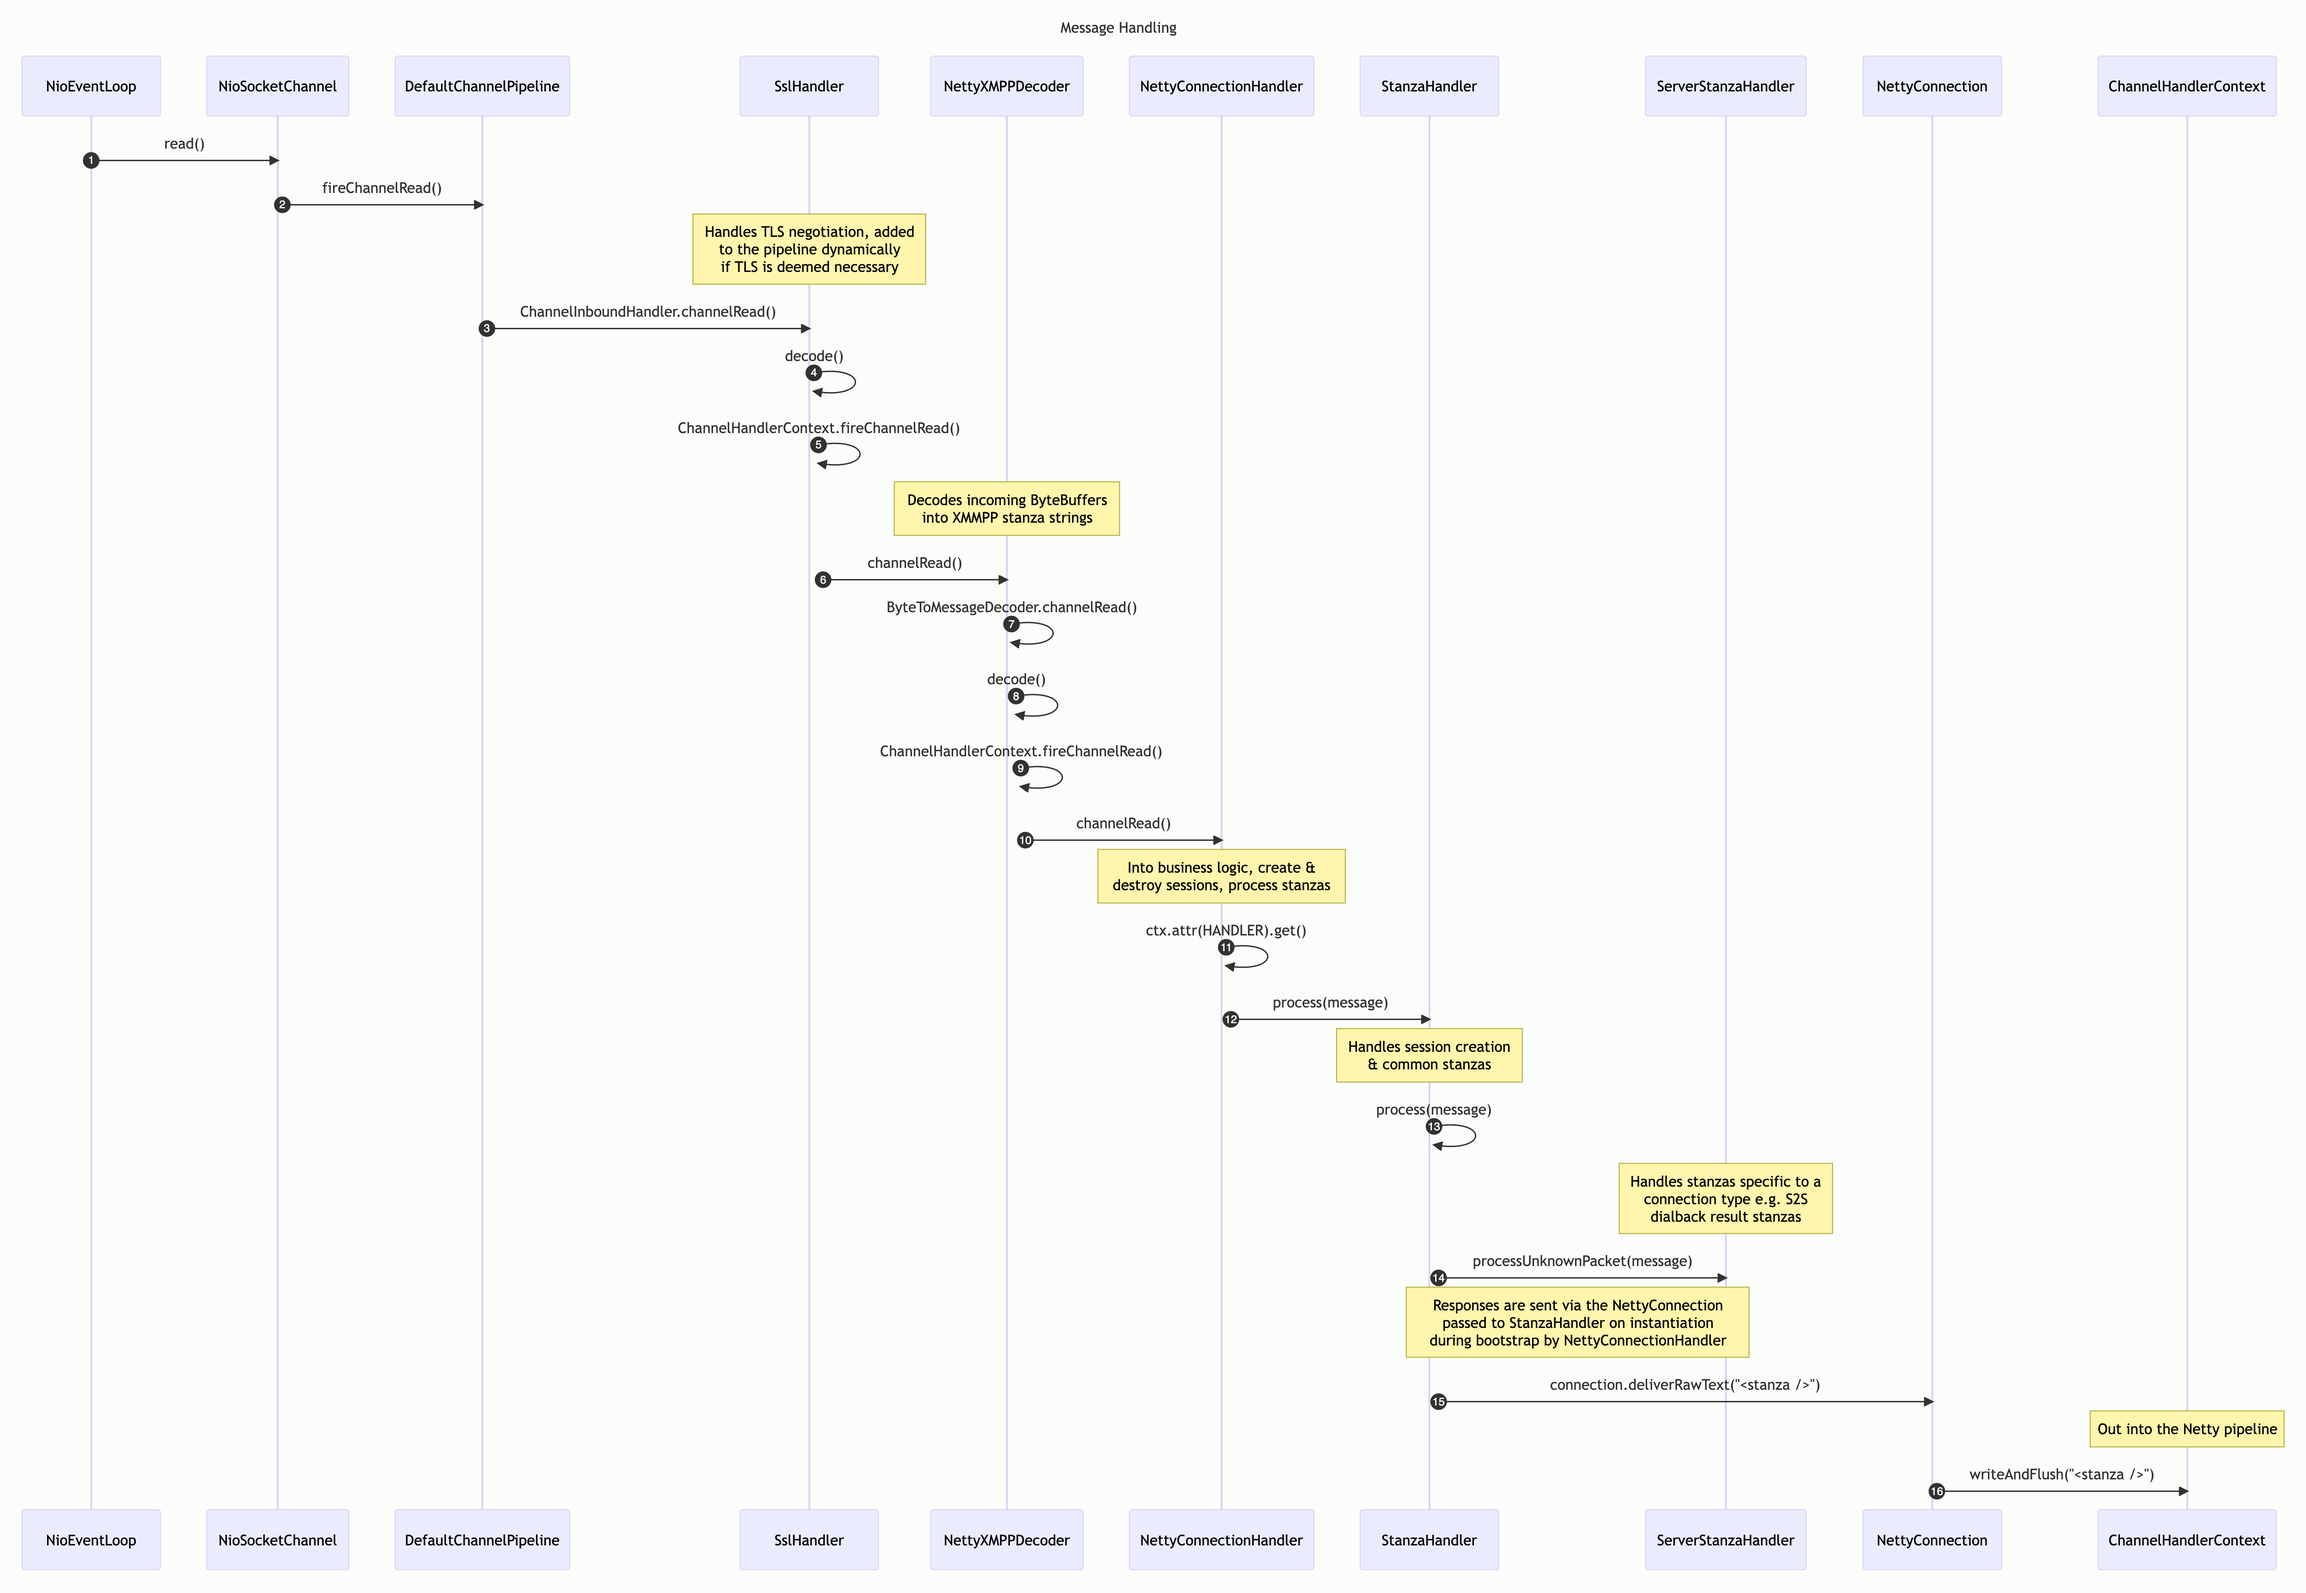
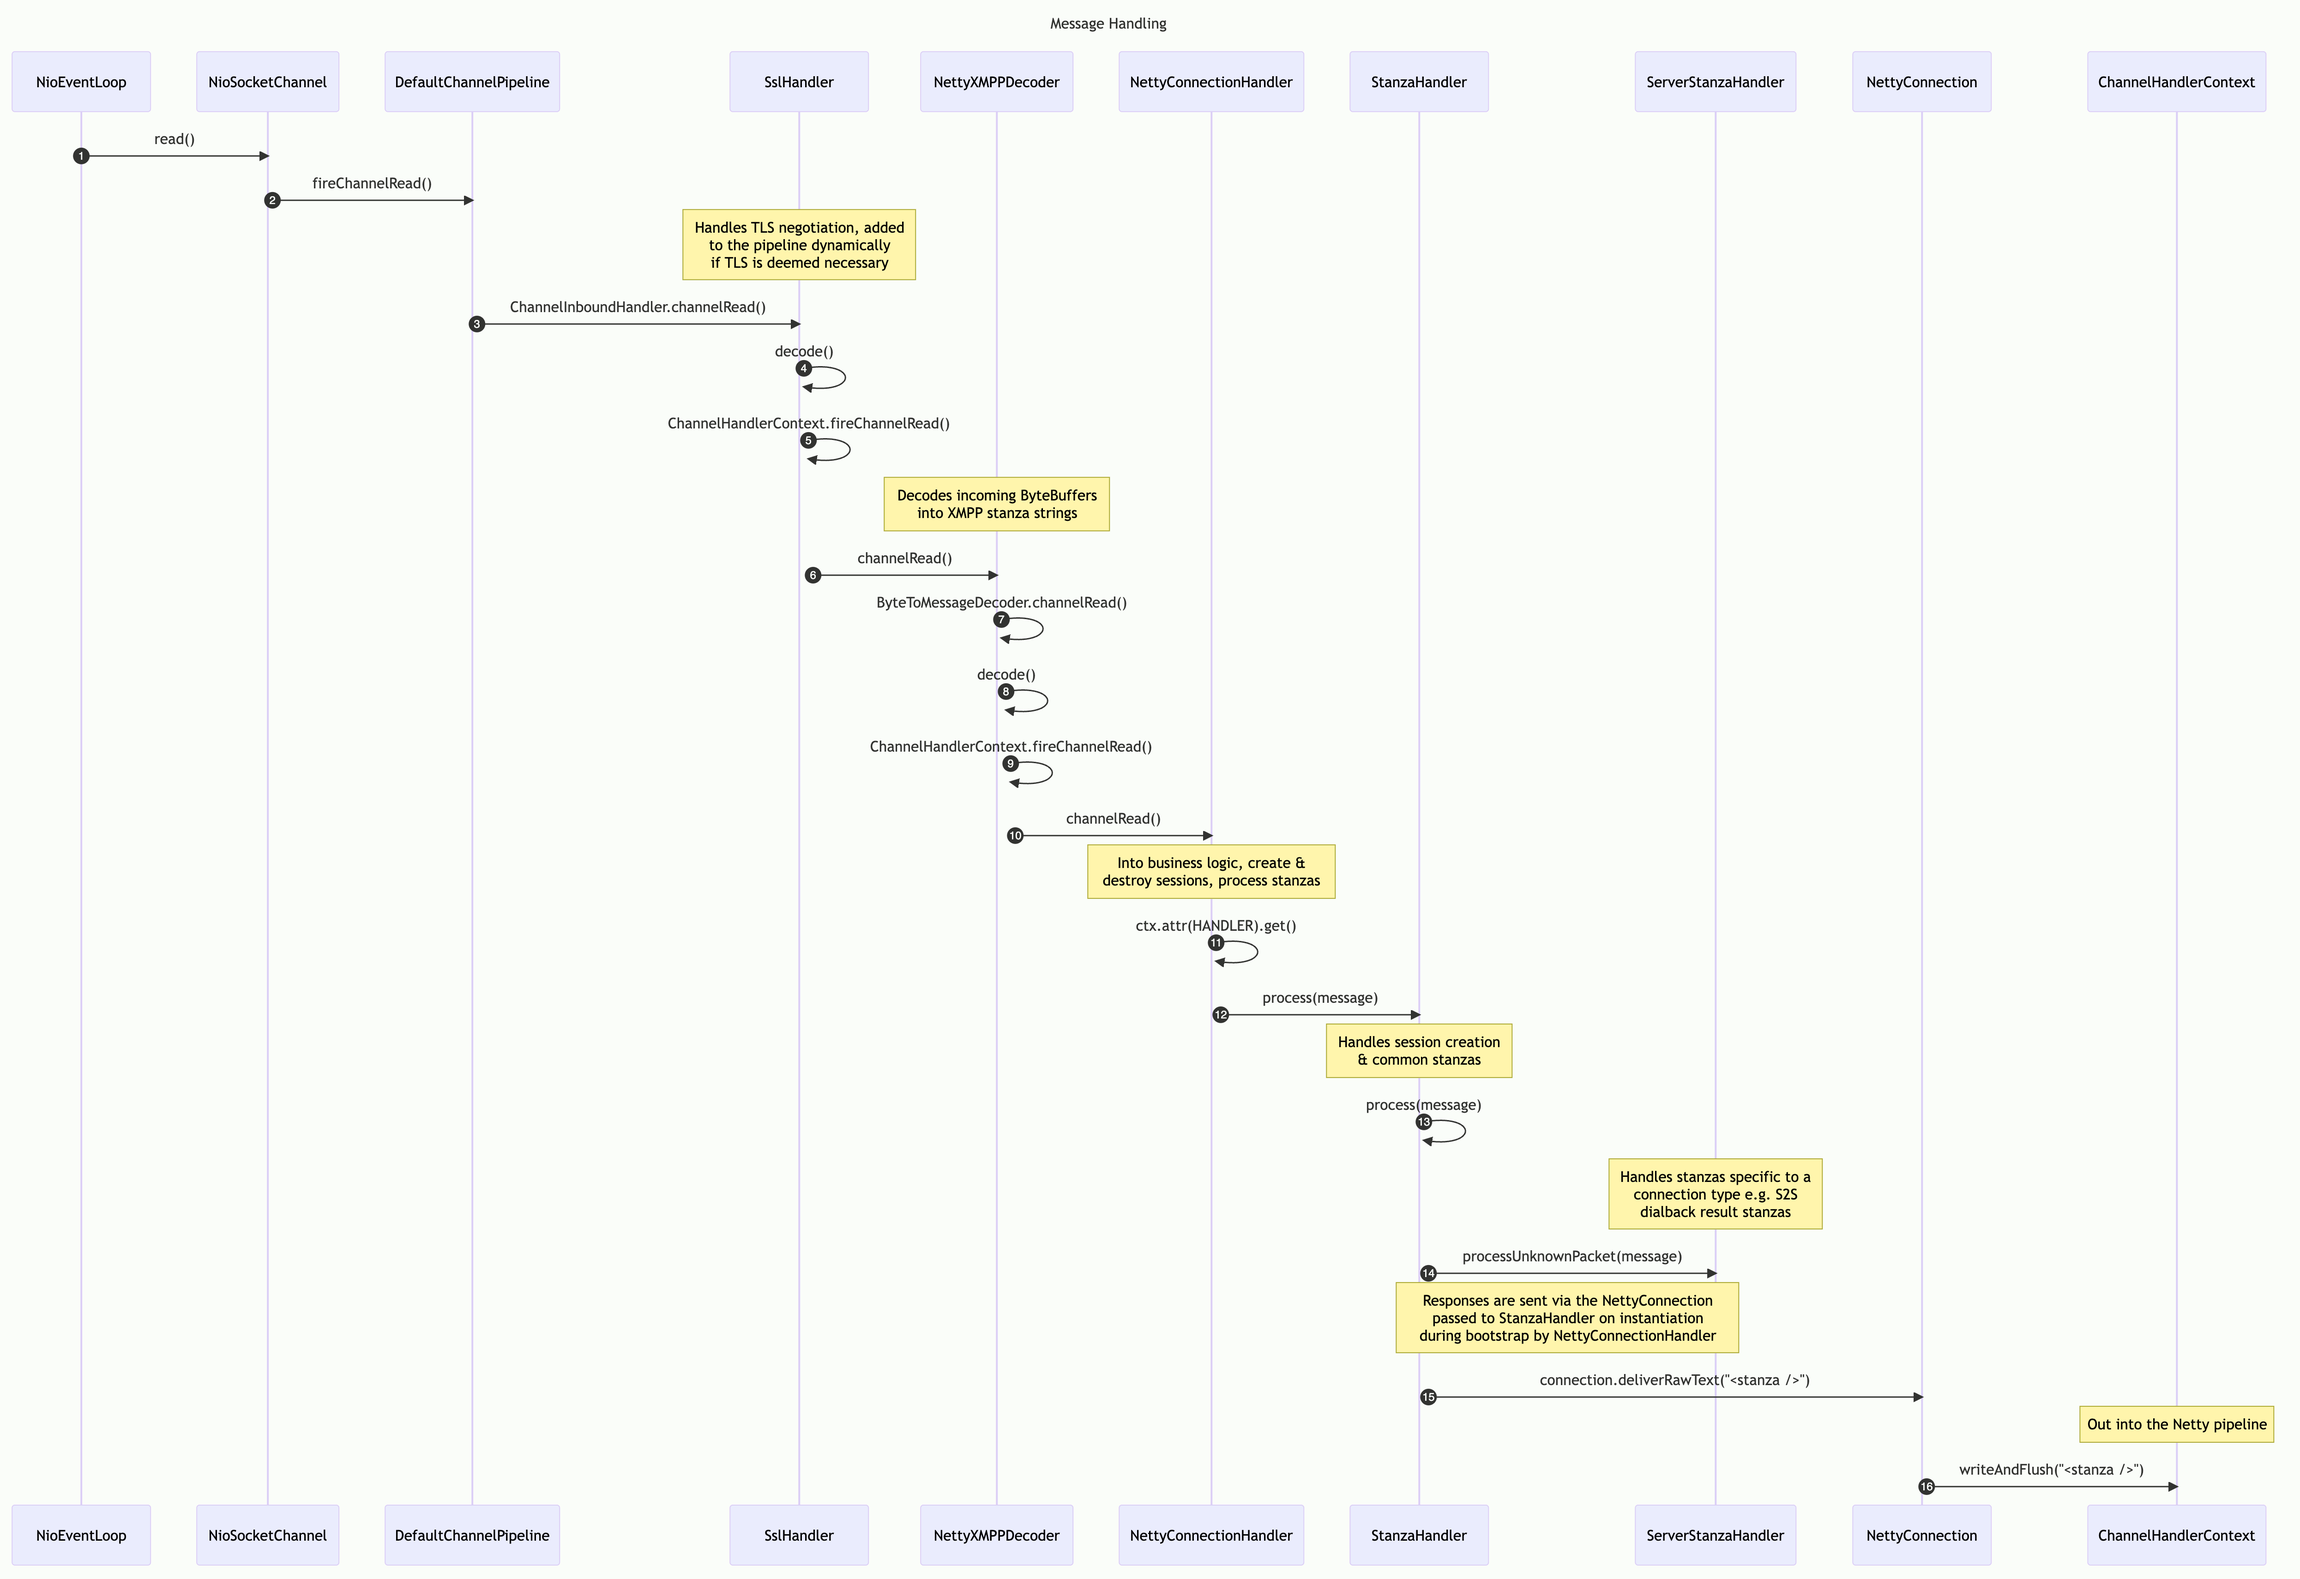
Documentation: fixes typo in diagram

diff --git a/documentation/diagrams/netty-message-handling.md b/documentation/diagrams/netty-message-handling.md
@@ -12,7 +12,7 @@ sequenceDiagram title Message Handling
     DefaultChannelPipeline->>+SslHandler: ChannelInboundHandler.channelRead()
     SslHandler->>+SslHandler: decode()
     SslHandler->>+SslHandler: ChannelHandlerContext.fireChannelRead()
-    Note over NettyXMPPDecoder: Decodes incoming ByteBuffers <br/>into XMMPP stanza strings
+    Note over NettyXMPPDecoder: Decodes incoming ByteBuffers <br/>into XMPP stanza strings
     SslHandler->>+NettyXMPPDecoder: channelRead()
     NettyXMPPDecoder->>+NettyXMPPDecoder: ByteToMessageDecoder.channelRead()
     NettyXMPPDecoder->>+NettyXMPPDecoder: decode()
